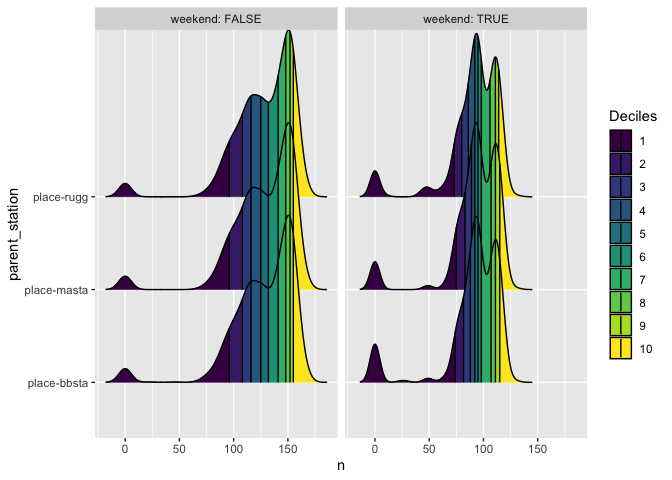
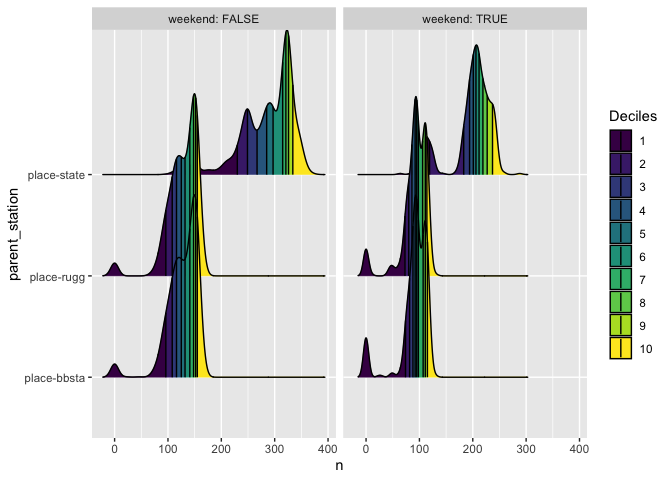
describe ridge plots

diff --git a/GreenLineUnionSquare.md b/GreenLineUnionSquare.md
@@ -303,7 +303,7 @@ execution_time_ds <- system.time({
 print(paste("Total execution time:", execution_time_ds["elapsed"], "seconds"))
 ```
 
-    [1] "Total execution time: 83.134 seconds"
+    [1] "Total execution time: 41.004 seconds"
 
 ``` r
 # note missing stations:
@@ -315,6 +315,10 @@ print(paste("Total execution time:", execution_time_ds["elapsed"], "seconds"))
 # also, weirdly, there's no Union Square data until 2022-09-28
 # TODO: clean data to reflect these (and station opening/closing dates)
 ```
+
+We can visualize the distribution of trips per day at some stations to
+get a sense of what kind of cutoff we might need for declaring that a
+given station was shut down.
 
 ``` r
 # plot some stations on the Orange Line
@@ -346,10 +350,12 @@ lamp_stations_summary_shutdown <- lamp_stations_summary |>
 # mutate(weekend = wday(service_date) %in% c(1, 7))
 ```
 
+We may get tighter distributions if we isolate weekdays from weekends.
+
 ``` r
 lamp_stations_summary |>
   mutate(weekend = wday(service_date) %in% c(1, 7)) |>
-  filter(parent_station %in% c("place-rugg","place-masta","place-bbsta") &
+  filter(parent_station %in% c("place-rugg","place-bbsta","place-state") &
            direction_id == T) |>
   ggplot(aes(x = n, y = parent_station, fill = factor(after_stat(quantile)))) +
     stat_density_ridges(geom = "density_ridges_gradient", quantiles = 10,
@@ -358,9 +364,9 @@ lamp_stations_summary |>
   facet_wrap(vars(weekend), labeller = "label_both")
 ```
 
-    Picking joint bandwidth of 5.87
+    Picking joint bandwidth of 7.33
 
-    Picking joint bandwidth of 4.51
+    Picking joint bandwidth of 4.97
 
 <img
 src="GreenLineUnionSquare_files/figure-commonmark/fig-orange-distributions-weekend-1.png"
